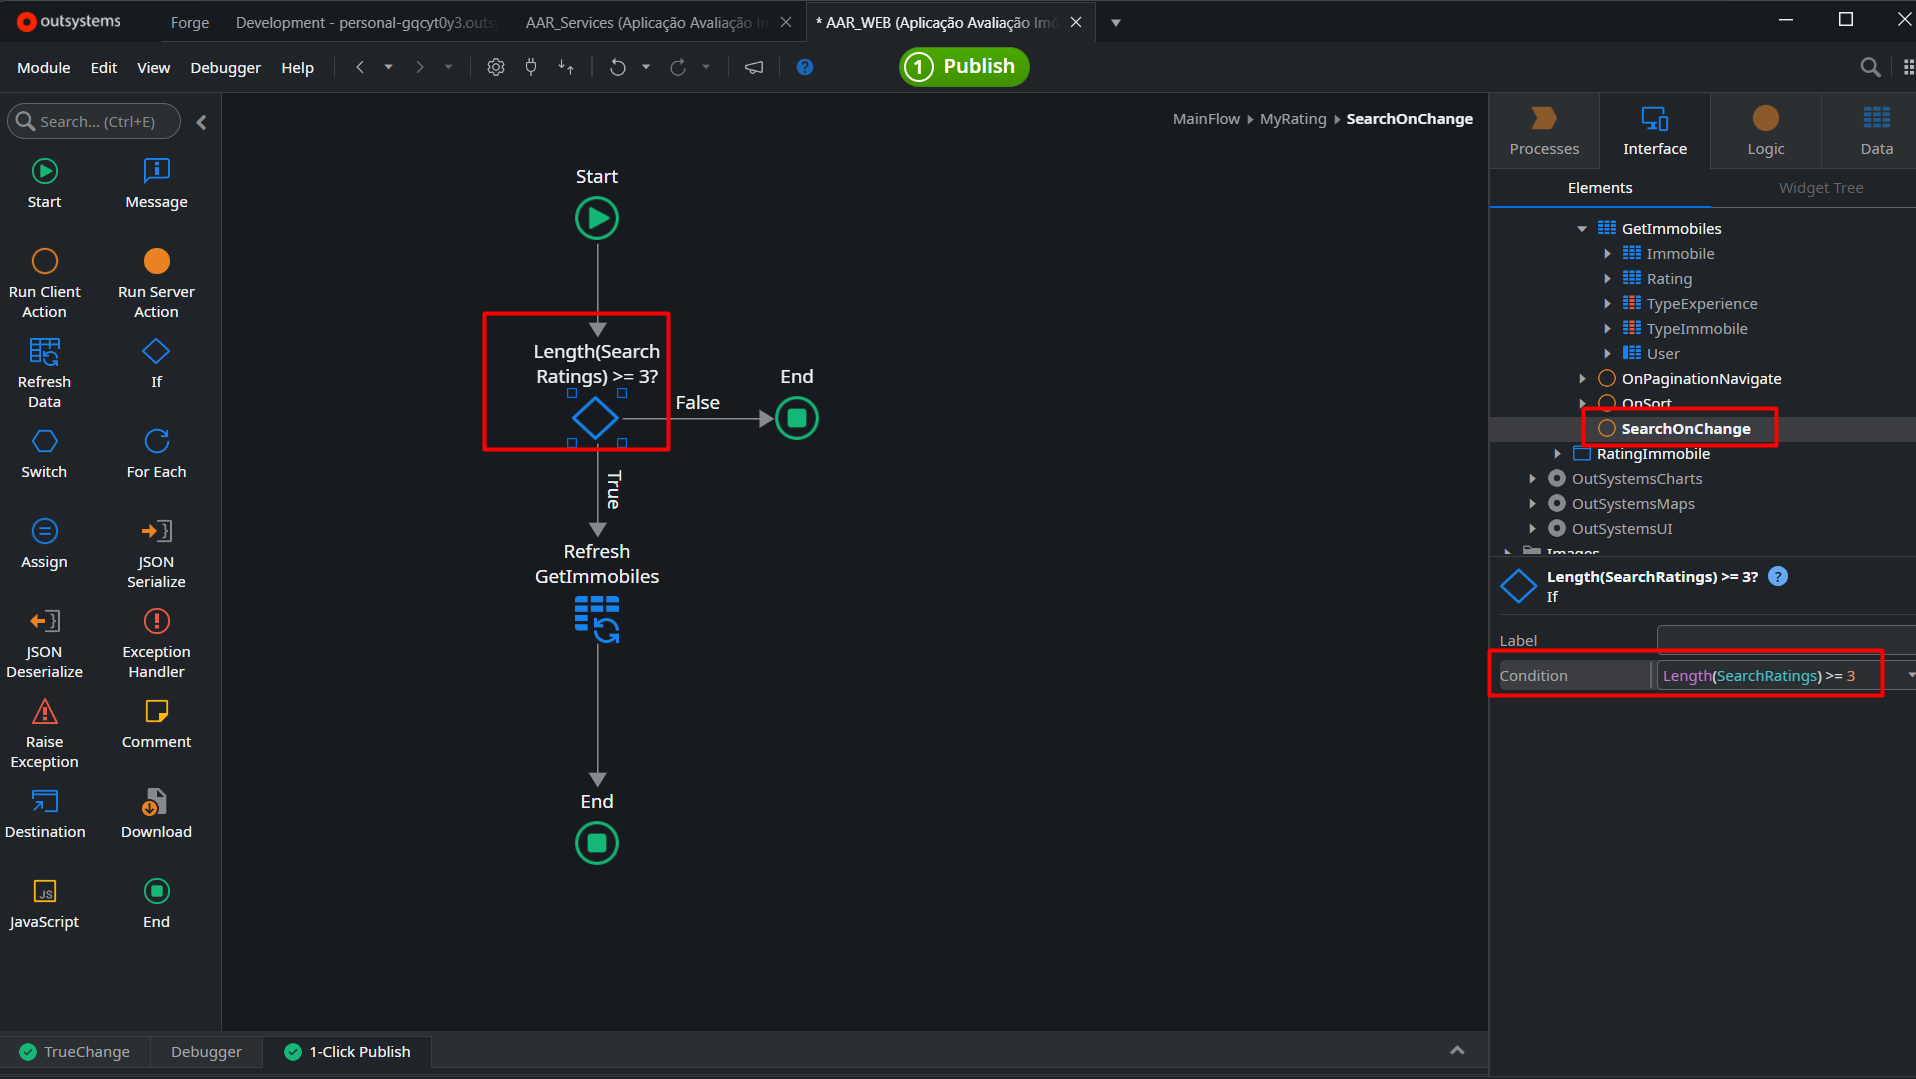
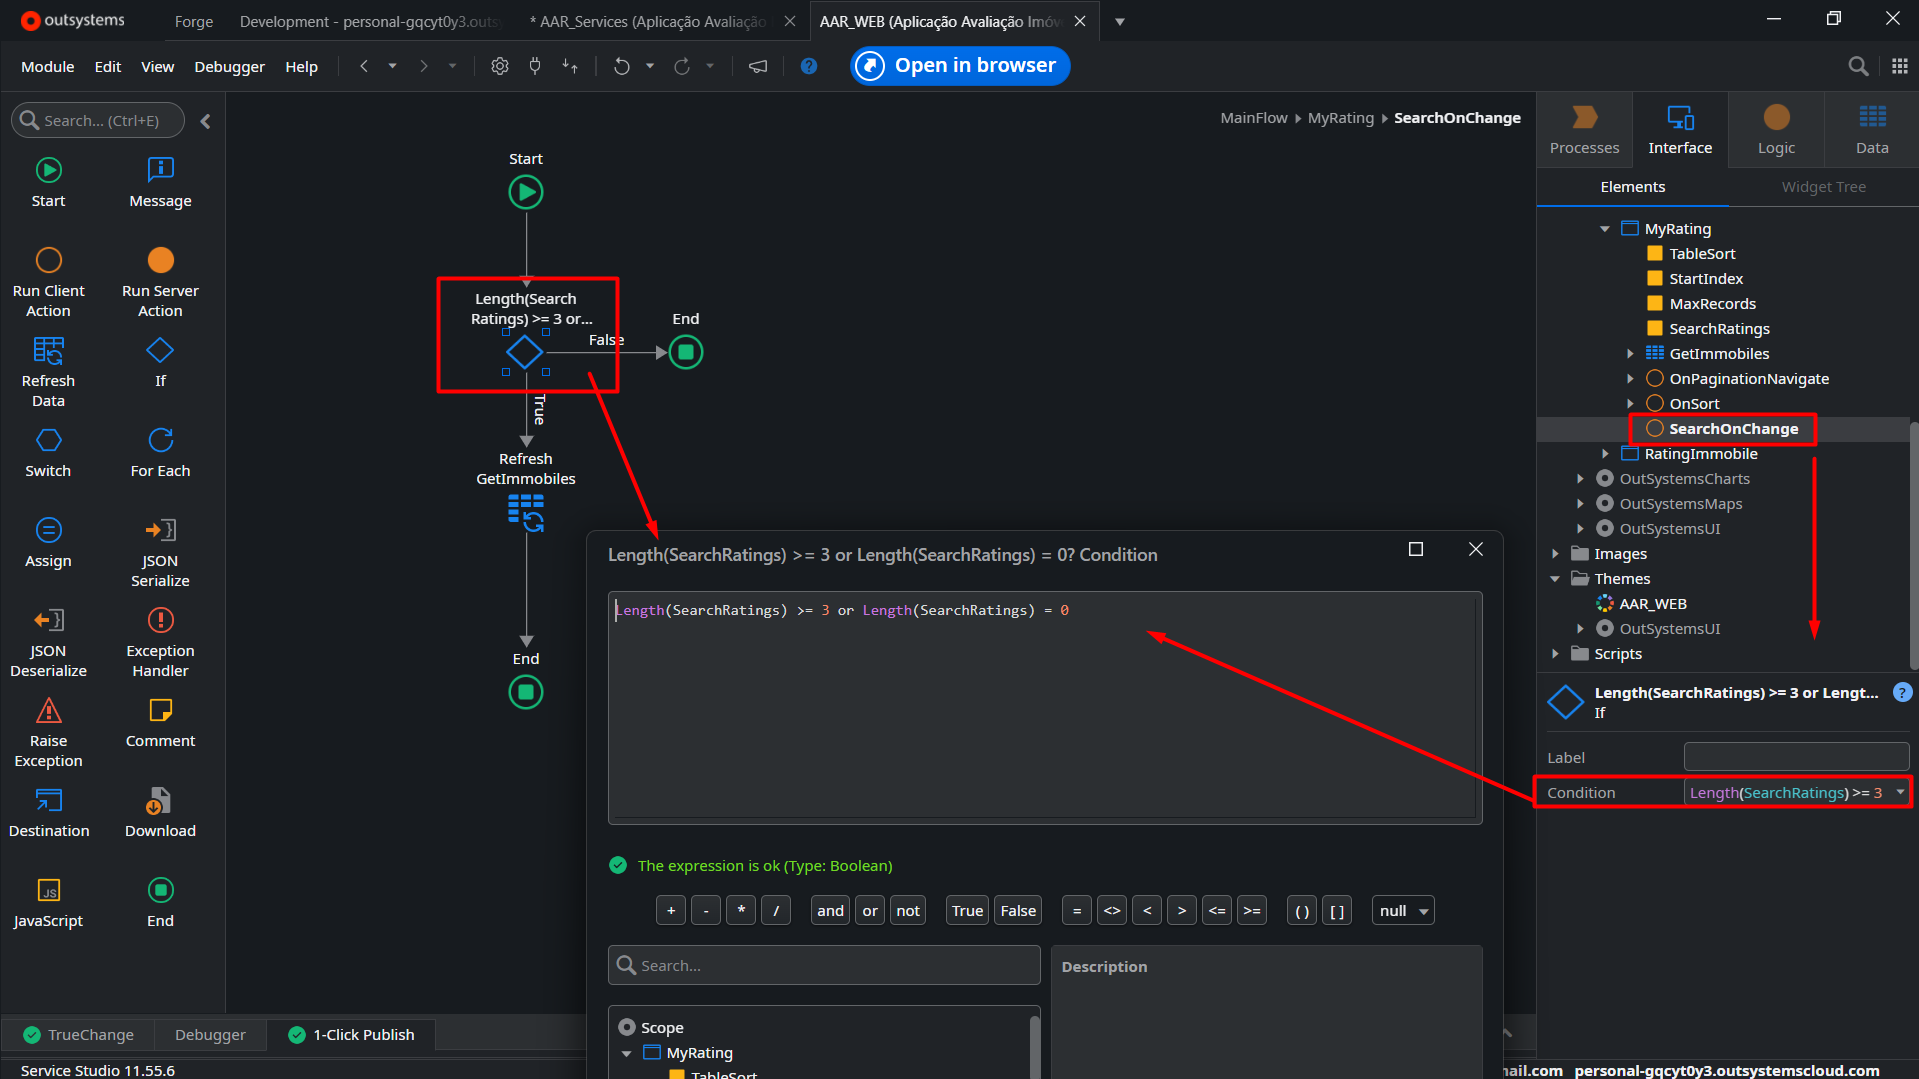
Subindo primeira etapa Parte 5

diff --git a/README.md b/README.md
@@ -8,7 +8,7 @@ Aplicação em OutSystems Reactive de Avaliações de Imóveis
 * [2ª Parte - Título da Parte 2](#documentação-da-2ª-parte)
 * [3ª Parte - Título da Parte 3](#documentação-da-3ª-parte)
 * [4ª Parte - Título da Parte 4](#documentação-da-4ª-parte)
-* [5ª Parte - Em criação ...](./Assets/Parte%205/Parte%205.md)
+* [5ª Parte - Em criação ...](#documentação-da-5ª-parte)
 
 ## Readme in English - EN
 
@@ -879,12 +879,12 @@ If(GetImmobiles.List.Current.TypeImmobileId = Entities.TypeImmobile.Casa, "Casa"
 			- 2º - Colocamos um placeholder para facilitar o entendimento do usuário.
 			- 3º -  Criamos uma variável local "SearchRating" como text, que será nossa variável que capturará o valor que digitarmos.
 				![Parte 4](./Assets/Parte%204/img/ModalAvaliacao-TelaAvaliarImovel/ModalAvaliacao42.png)
-			- 4º Criamos no Input uma ação On Change: **SearchOnChange**, que será um delimitador de caracteres ou seja não será atualizado o campo de busca ou ativado a busca SE não for >= a 3 caracteres. Após será atualizado a tabela através de um refresh
+			- 4º Criamos no Input uma ação On Change: **SearchOnChange**, que será um delimitador de caracteres ou seja só será atualizado o campo de busca SE ao digitar no campo Search for >= 3 ou = 0 caracteres. Após será atualizado a tabela através de um refresh
 				- Ao digitar no Input de pesquisa:
 					- 1º - Iniciará a ação OnChange
 					- 2º - Verificará se 
 				```JS 
-				Length(SearchRatings) >= 3
+				Length(SearchRatings) >= 3 or Length(SearchRatings) = 0
 				```
 				- 3º - SE for **False** finaliza ou SE for **True** atualiza os dados da tabela
 				![Parte 4](./Assets/Parte%204/img/ModalAvaliacao-TelaAvaliarImovel/ModalAvaliacao40.png)
@@ -895,5 +895,75 @@ If(GetImmobiles.List.Current.TypeImmobileId = Entities.TypeImmobile.Casa, "Casa"
 -----------------------------------
 
 ## Documentação da 5ª Parte
+
+## **Nesta Parte:**
+
+- Ajustes no menu
+- Evento de editar (tela minhas avaliações)
+- Tela de Dashboard
+- Como trazer dados de gráficos do módulo service
+- Como manipular dados dos gráfico
+- Adicionando atributo em aggregate
+- Trabalhando com Switch
+- Tela Imóveis que já morei
+- Ajustes gerais
+
+### Ajustando menu
+
+- Ajustando o menu
+	- Foi configurado com os nomes adequados para entendimento da navegação mais fluida
+		![Parte 5](./Assets/Parte%205/img/ModalAvaliacao43.png)
+
+-----------------
+
+### Criando a tela do Dashboard
+
+- A ideia desse dashboard é ter alguns gráficos que nos mostrará algumas métricas importantes.
+	- Também criarmos a lógica desses gráficos no modulo de Services e consumi-los e estiliza-los no módulo Web.
+- 1º - Acessando o Módulo Services, vamos até a aba "Logic" e vamos criar uma pasta para as ações de servidor especificas para o Dashboard como fizemos anteriormente com as demais.
+	![Parte 5](./Assets/Parte%205/img/ModalAvaliacao44.png)
+- 2º - Vamos criar uma Server Action para cada gráfico 
+	![Parte 5](./Assets/Parte%205/img/ModalAvaliacao45.png)
+	- Ambas as ações devem ser públicas para que eu possa consumir depois no módulo Web.
+		![Parte 5](./Assets/Parte%205/img/ModalAvaliacao46.png)
+- 3º - Criando a Server Action do Rating(Avaliações)
+	- 1º - Arrastar um Aggregate para o fluxo 
+	- 2º - Adicionamos a tabela Rating que sera nossa principal
+	- 3º - Criamos um join (Only With) a tabela TypeExperience
+		- Aqui fazemos isso porque a ideia é que seja contado a quantidade de avaliações por tipo, por exemplo 3 avaliações boas, 4 ruins ...
+		- Para isso além do Join é preciso realizar um **Count** na **Rating.ID** para realizar a contagem e agrupar a **TypeExperience.Label** para trazer a contagem por tipo de avaliação.
+		![Parte 5](./Assets/Parte%205/img/ModalAvaliacao47.png)
+		![Parte 5](./Assets/Parte%205/img/ModalAvaliacao48.png)
+	- 4º - Agora eu preciso passar esses dados de uma forma que o gráfico entenda, porque não estamos passando esse aggregate direto na tela no módulo Web.
+		- Dessa forma para passar vou precisar de uma estrutura determinada que é o **Datapoint** do gráfico 
+		- Para isso vamos puxar essa dependência dentro do módulo service
+		![Parte 5](./Assets/Parte%205/img/ModalAvaliacao49.png)
+		- Uma observação a OutSystems trabalha com os modelos de gráficos da **Highcharts** dessa maneira caso tenha algum gráfico lá que possa interessar é provável que possa ser importado para a OutSystems. 
+		- Seleciono a dependência que eu quero e aplico 
+			- Após isso irei inserir 2 **parâmetros de saída**
+				- 1º -  Será **Output** que é nossa estrutura de retorno das mensagem e sucesso
+				- 2º - Vamos adicionar o parâmetro de saída, referente ao DataPoint que adicionamos.
+					- Para isso temos que primeiro clicar em Add Parâmetro de saída
+					- Depois clicar na seta do campo **Data Type** selecionar o tipo **List** e só depois rolar para baixo e selecionar **DataPoint**
+					- Isso deve ser feito porque por padrão o parâmetro de saída vem como somente record só que queremos vários datapoints ou seja uma **Lista de Dados**
+				![Parte 5](./Assets/Parte%205/img/ModalAvaliacao50.png)
+				![Parte 5](./Assets/Parte%205/img/ModalAvaliacao51.png)
+				![Parte 5](./Assets/Parte%205/img/ModalAvaliacao52.png)
+				![Parte 5](./Assets/Parte%205/img/ModalAvaliacao53.png)
+	- 5º - Vamos estruturar agora a lógica do fluxo da Server Action (Ratting)
+		- 1º - Criamos nosso Aggregate, realizamos os joins e configuramos nossos parâmetros de saída
+		- 2º - Agora vamos arrastar a **Run Server Action** digitar List -> que retornará a função **ListAppendAll** que permite passar os valores vindo do nosso Aggregate para o nosso DataPoint
+		- 3º - Uma vez setada o **ListAppendAll** vamos adicionar um Asign que receberá o nosso **Output** caso retorne sucesso e finaliza.
+			- Output.Success = True
+			- Output.Massage = "Dados coletados com sucesso"
+		- 4º - Criando a lógica de exceção através do **AllExpections** -> vamos inserir um **Asign** que receberá e finaliza ao final
+			- Output.Success = False
+			- Output.Massage = AllExcepetion.ExcepetionMessage (receberá a mensagem de erro da propria **AllExpections**)
+		![Parte 5](./Assets/Parte%205/img/ModalAvaliacao54.png)
+		![Parte 5](./Assets/Parte%205/img/ModalAvaliacao55.png)
+		![Parte 5](./Assets/Parte%205/img/ModalAvaliacao56.png)
+		![Parte 5](./Assets/Parte%205/img/ModalAvaliacao57.png)
+- 4º - Criando a Server Action do ImmobileRegister ...
+-------------
 
 ## EM CRIAÇÃO ..... EM BREVE PARTE 5
